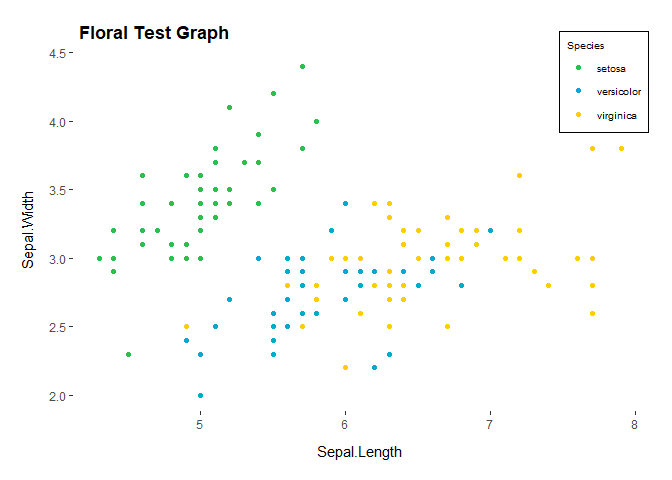
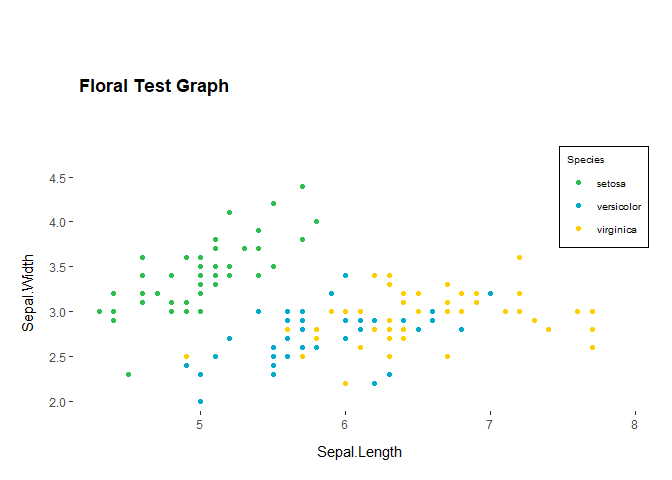
Updates to README

diff --git a/README.md b/README.md
@@ -29,47 +29,26 @@ library(ggplot2)
 #> Warning: package 'ggplot2' was built under R version 4.2.3
 library(ggthemes)
 #> Warning: package 'ggthemes' was built under R version 4.2.3
+library(extrafont)
+#> Registering fonts with R
 
 data(iris)
+
+font_import(pattern="arial.ttf", prompt=FALSE)
+#> Scanning ttf files in C:\windows/Fonts, C:\Users\amurulidhar\AppData\Local/Microsoft/Windows/Fonts ...
+#> Extracting .afm files from .ttf files...
+#> C:\Windows\Fonts\arial.ttf : ArialMT already registered in fonts database. Skipping.
+#> Found FontName for 0 fonts.
+#> Scanning afm files in C:/Users/amurulidhar/AppData/Local/R/win-library/4.2/extrafontdb/metrics
+loadfonts()
+#> Arial already registered with windowsFonts().
+#> Arial already registered with pdfFont().
+#> Arial already registered with postscriptFont().
+
 guttmacher_graph_theme_layer <- list(ggplot2::scale_color_manual(values = c("#2DBF4E", "#00ABCB", "#FFCE01", "#E66A18")),
                                      guttmacherggplottheme::guttmacher_theme())
-#> Warning in unit(c(t, r, b, l), unit): NAs introduced by coercion
-#> Warning: Vectorized input to `element_text()` is not officially supported.
-#> ℹ Results may be unexpected or may change in future versions of ggplot2.
 ggplot2::ggplot(iris, aes(x = Sepal.Length, y = Sepal.Width, color = Species)) +
                 geom_point() + labs (title ="Floral Test Graph" )  + guttmacher_graph_theme_layer
-#> Warning in grid.Call(C_stringMetric, as.graphicsAnnot(x$label)): font family
-#> not found in Windows font database
-#> Warning in grid.Call(C_stringMetric, as.graphicsAnnot(x$label)): font family
-#> not found in Windows font database
-
-#> Warning in grid.Call(C_stringMetric, as.graphicsAnnot(x$label)): font family
-#> not found in Windows font database
-
-#> Warning in grid.Call(C_stringMetric, as.graphicsAnnot(x$label)): font family
-#> not found in Windows font database
-#> Warning in grid.Call(C_textBounds, as.graphicsAnnot(x$label), x$x, x$y, : font
-#> family not found in Windows font database
-
-#> Warning in grid.Call(C_textBounds, as.graphicsAnnot(x$label), x$x, x$y, : font
-#> family not found in Windows font database
-
-#> Warning in grid.Call(C_textBounds, as.graphicsAnnot(x$label), x$x, x$y, : font
-#> family not found in Windows font database
-#> Warning in grid.Call.graphics(C_text, as.graphicsAnnot(x$label), x$x, x$y, :
-#> font family not found in Windows font database
-
-#> Warning in grid.Call.graphics(C_text, as.graphicsAnnot(x$label), x$x, x$y, :
-#> font family not found in Windows font database
-
-#> Warning in grid.Call.graphics(C_text, as.graphicsAnnot(x$label), x$x, x$y, :
-#> font family not found in Windows font database
-
-#> Warning in grid.Call.graphics(C_text, as.graphicsAnnot(x$label), x$x, x$y, :
-#> font family not found in Windows font database
-
-#> Warning in grid.Call.graphics(C_text, as.graphicsAnnot(x$label), x$x, x$y, :
-#> font family not found in Windows font database
 ```
 
 <img src="man/figures/README-example-1.png" width="100%" />
